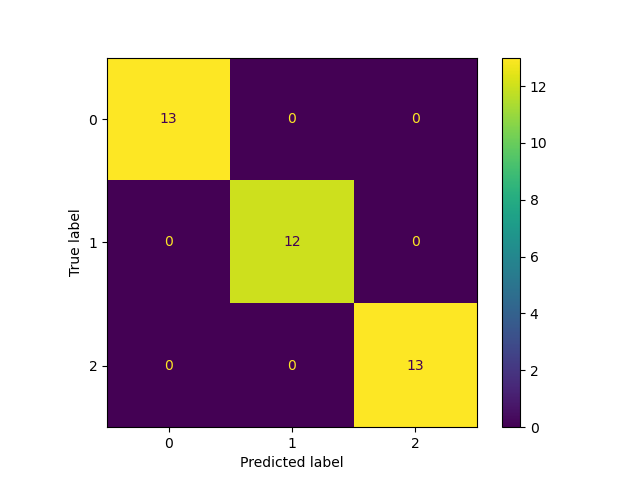
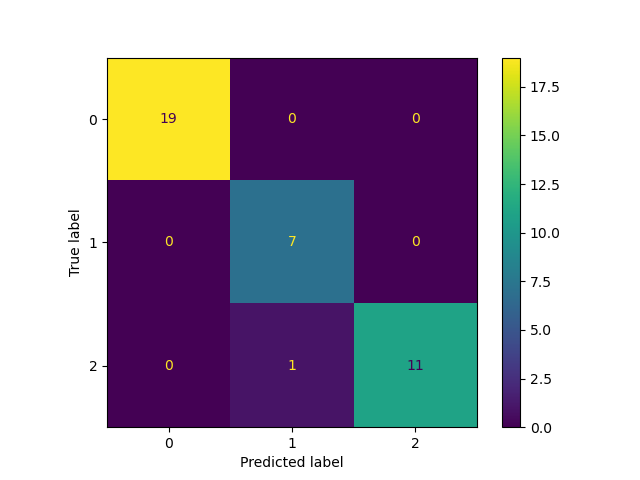
test compact output

diff --git a/test_irisclassifier.py b/test_irisclassifier.py
@@ -7,7 +7,7 @@ epochs: Set[int] = {50, 100, 200, 300, 500}
 
 @pytest.mark.parametrize('epoch', epochs)
 def test_evaluations(epoch):
-    i = irisclassifier.IrisClassifier(epoch)
+    i = irisclassifier.IrisClassifier()
     i.ingestion()
     i.segregation()
     i.train()
